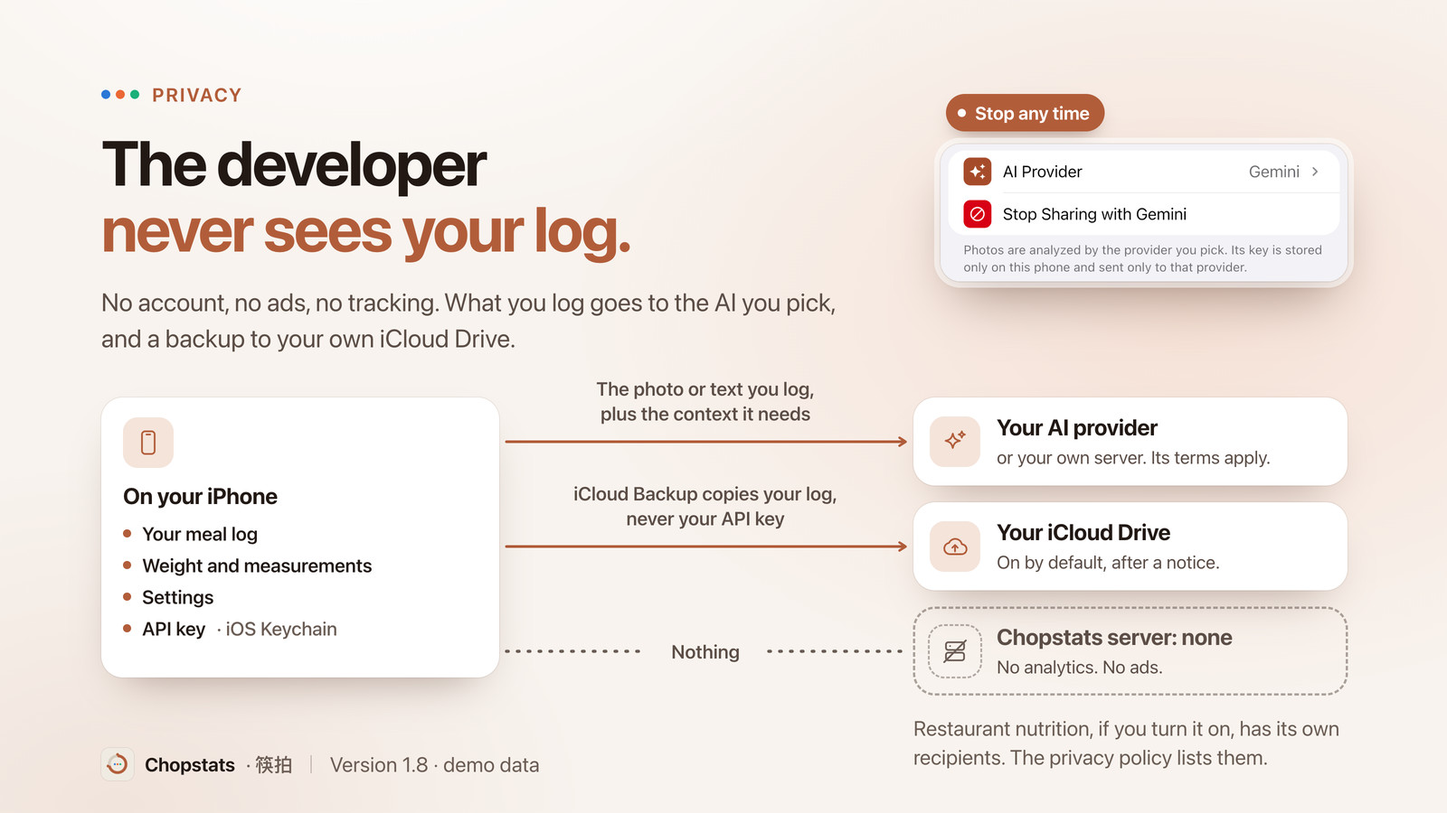
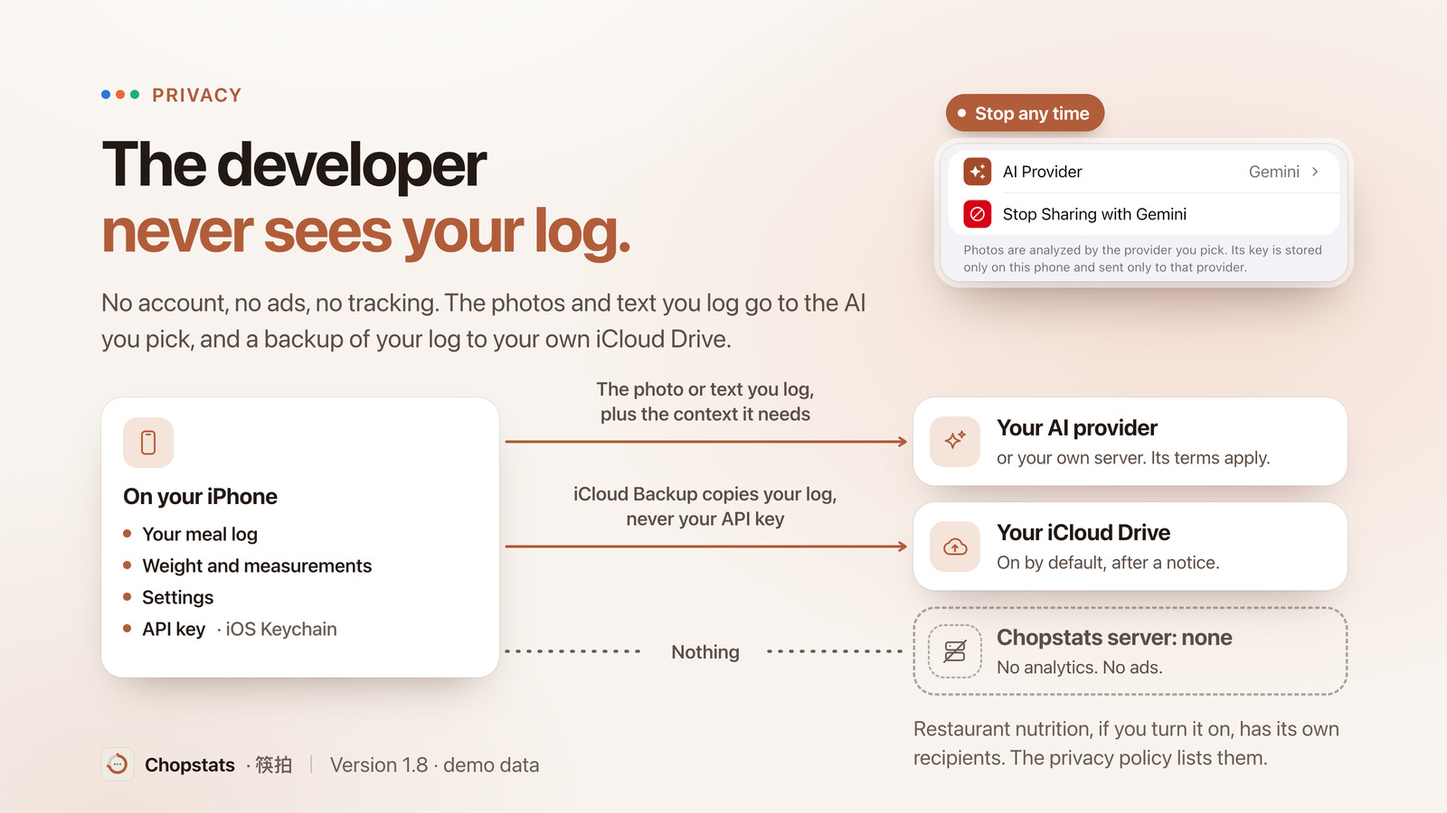
README slides: the privacy line names the photos and text sent to the AI; slide notes match the images
- 10-privacy (en, zh) and its alt texts: "The photos and text you log go to
  the AI you pick, and a backup of your log to your own iCloud Drive."
  Weight, measurements and meals entered by number send nothing to the AI.
- zh 03-control: the typed fix is about the yogurt the zh screen shows
  (「酸奶其实是脱脂的」), as the en one is about the salad.
- zh 02-how step 2 breaks after the comma, not inside 热量; the zh hero
  alt says 分量 (README.zh-CN rule 6).
- Slide notes: the social preview is English only with a "Demo data"
  footer; neither the tab bar nor + Log is in frame; the stale 13-next
  HTML pages are removed.

Changed region(s): [[0.0625, 0.3422, 0.5938, 0.4356]]

diff --git a/docs/readme/src/html/zh/10-privacy.html b/docs/readme/src/html/zh/10-privacy.html
@@ -1,1 +1,1 @@
-<!doctype html><html lang="zh-Hans"><head><meta charset="utf-8"><meta name="viewport" content="width=1600"><title>10-privacy</title><link rel="stylesheet" href="../../slides.css"></head><body><main class="slide t-light l-free "><div class="ring track"></div><div class="ring"></div><div class="copy" style="left:112px;top:92px;width:860px"><div class="kicker"><span class="eyebrow"><span class="dots"><i></i><i></i><i></i></span>隐私</span></div><h1 class="headline">饮食记录，<em>开发者看不到。</em></h1><p class="sub">无需账户，没有广告，不做追踪。<br>你记录的内容会发给你选的 AI，备份存进你自己的 iCloud 云盘。</p></div><div class="footer"><span class="brand"><img src="../../../../../app/assets/app_icon.png" alt="">Chopstats <span>· 筷拍</span></span><span class="sep"></span><span class="note">1.8 版本 · 演示数据</span></div><svg class="links" viewBox="0 0 1600 900"><defs><marker id="ah" viewBox="0 0 12 12" refX="7" refY="6" markerWidth="12" markerHeight="12" markerUnits="userSpaceOnUse" orient="auto"><path d="M1.5 1.5L8.5 6 1.5 10.5" style="fill:none;stroke:var(--accent);stroke-width:2.6;stroke-linecap:round;stroke-linejoin:round"/></marker><marker id="ahm" viewBox="0 0 12 12" refX="7" refY="6" markerWidth="12" markerHeight="12" markerUnits="userSpaceOnUse" orient="auto"><path d="M1.5 1.5L8.5 6 1.5 10.5" style="fill:none;stroke:var(--fg-3);stroke-width:2.6;stroke-linecap:round;stroke-linejoin:round"/></marker></defs><path class="" d="M 560 492 L 1000 492" marker-end="url(#ah)"/><path class="" d="M 560 619 L 1000 619" marker-end="url(#ah)"/><path class="dash mute" d="M 560 733 L 712 733"/><path class="dash mute" d="M 850 733 L 1000 733"/></svg><div class="linklabel" style="left:780px;top:447px">你记录的照片或文字，<br>以及必要的上下文</div><div class="linklabel" style="left:780px;top:574px">「iCloud 备份」复制你的记录，<br>不含 API Key</div><div class="linklabel" style="left:780px;top:733px">什么都不发</div><div class="node " style="left:112px;top:430px;width:440px;height:330px;"><div class="ico"><svg viewBox="0 0 32 32"><rect x="9" y="3.5" width="14" height="25" rx="3.5"/><path d="M14 7h4"/></svg></div><h4>在你的 iPhone 上</h4><ul><li>你的饮食记录</li><li>体重和围度</li><li>设置</li><li>API Key <span>· iOS 钥匙串</span></li></ul></div><div class="node row" style="left:1010px;top:430px;width:480px;"><div class="ico"><svg viewBox="0 0 32 32"><path d="M13.5 7c1 5 3 7 8 8-5 1-7 3-8 8-1-5-3-7-8-8 5-1 7-3 8-8z"/><path d="M23.5 4.5c.45 2.2 1.3 3.05 3.5 3.5-2.2.45-3.05 1.3-3.5 3.5-.45-2.2-1.3-3.05-3.5-3.5 2.2-.45 3.05-1.3 3.5-3.5z"/></svg></div><div><h4>你选的 AI 服务商</h4><p>或者你自己的服务器。<br>以它的条款为准。</p></div></div><div class="node row" style="left:1010px;top:570px;width:480px;"><div class="ico"><svg viewBox="0 0 32 32"><path d="M10 24.5h13a5.5 5.5 0 0 0 .6-11A7.5 7.5 0 0 0 9.4 12 6.3 6.3 0 0 0 10 24.5z"/><path d="M16 21.5v-7M13 17.3l3-3 3 3"/></svg></div><div><h4>你自己的 iCloud 云盘</h4><p>默认开启，会先显示一条说明。</p></div></div><div class="node row ghost" style="left:1010px;top:684px;width:480px;"><div class="ico"><svg viewBox="0 0 32 32"><rect x="6" y="6" width="20" height="8.5" rx="2.5"/><rect x="6" y="17.5" width="20" height="8.5" rx="2.5"/><path d="M10.5 10.2h.1M10.5 21.7h.1"/><path d="M4 28L28 4"/></svg></div><div><h4>筷拍服务器：没有</h4><p>没有统计分析，没有广告。</p></div></div><div class="zoom" style="left:1040px;top:104px;"><div class="zlabel"><i></i>随时可以停下</div><div class="zbox" style="width:450.0px;height:151.8px"><img src="../../screens/zh/11_settings_ai.png" alt="" style="left:-8.5px;top:-227.5px;width:467.0px;height:1014.6px"></div></div><div class="smallprint" style="left:1010px;top:798px;width:480px;text-align:left">「餐厅营养」打开后另有接收方，<br>详见隐私政策。</div></main></body></html>
+<!doctype html><html lang="zh-Hans"><head><meta charset="utf-8"><meta name="viewport" content="width=1600"><title>10-privacy</title><link rel="stylesheet" href="../../slides.css"></head><body><main class="slide t-light l-free "><div class="ring track"></div><div class="ring"></div><div class="copy" style="left:112px;top:92px;width:860px"><div class="kicker"><span class="eyebrow"><span class="dots"><i></i><i></i><i></i></span>隐私</span></div><h1 class="headline">饮食记录，<em>开发者看不到。</em></h1><p class="sub">无需账户，没有广告，不做追踪。<br>你记录的照片和文字会发给你选的 AI，<br>记录的备份存进你自己的 iCloud 云盘。</p></div><div class="footer"><span class="brand"><img src="../../../../../app/assets/app_icon.png" alt="">Chopstats <span>· 筷拍</span></span><span class="sep"></span><span class="note">1.8 版本 · 演示数据</span></div><svg class="links" viewBox="0 0 1600 900"><defs><marker id="ah" viewBox="0 0 12 12" refX="7" refY="6" markerWidth="12" markerHeight="12" markerUnits="userSpaceOnUse" orient="auto"><path d="M1.5 1.5L8.5 6 1.5 10.5" style="fill:none;stroke:var(--accent);stroke-width:2.6;stroke-linecap:round;stroke-linejoin:round"/></marker><marker id="ahm" viewBox="0 0 12 12" refX="7" refY="6" markerWidth="12" markerHeight="12" markerUnits="userSpaceOnUse" orient="auto"><path d="M1.5 1.5L8.5 6 1.5 10.5" style="fill:none;stroke:var(--fg-3);stroke-width:2.6;stroke-linecap:round;stroke-linejoin:round"/></marker></defs><path class="" d="M 560 492 L 1000 492" marker-end="url(#ah)"/><path class="" d="M 560 619 L 1000 619" marker-end="url(#ah)"/><path class="dash mute" d="M 560 733 L 712 733"/><path class="dash mute" d="M 850 733 L 1000 733"/></svg><div class="linklabel" style="left:780px;top:447px">你记录的照片或文字，<br>以及必要的上下文</div><div class="linklabel" style="left:780px;top:574px">「iCloud 备份」复制你的记录，<br>不含 API Key</div><div class="linklabel" style="left:780px;top:733px">什么都不发</div><div class="node " style="left:112px;top:430px;width:440px;height:330px;"><div class="ico"><svg viewBox="0 0 32 32"><rect x="9" y="3.5" width="14" height="25" rx="3.5"/><path d="M14 7h4"/></svg></div><h4>在你的 iPhone 上</h4><ul><li>你的饮食记录</li><li>体重和围度</li><li>设置</li><li>API Key <span>· iOS 钥匙串</span></li></ul></div><div class="node row" style="left:1010px;top:430px;width:480px;"><div class="ico"><svg viewBox="0 0 32 32"><path d="M13.5 7c1 5 3 7 8 8-5 1-7 3-8 8-1-5-3-7-8-8 5-1 7-3 8-8z"/><path d="M23.5 4.5c.45 2.2 1.3 3.05 3.5 3.5-2.2.45-3.05 1.3-3.5 3.5-.45-2.2-1.3-3.05-3.5-3.5 2.2-.45 3.05-1.3 3.5-3.5z"/></svg></div><div><h4>你选的 AI 服务商</h4><p>或者你自己的服务器。<br>以它的条款为准。</p></div></div><div class="node row" style="left:1010px;top:570px;width:480px;"><div class="ico"><svg viewBox="0 0 32 32"><path d="M10 24.5h13a5.5 5.5 0 0 0 .6-11A7.5 7.5 0 0 0 9.4 12 6.3 6.3 0 0 0 10 24.5z"/><path d="M16 21.5v-7M13 17.3l3-3 3 3"/></svg></div><div><h4>你自己的 iCloud 云盘</h4><p>默认开启，会先显示一条说明。</p></div></div><div class="node row ghost" style="left:1010px;top:684px;width:480px;"><div class="ico"><svg viewBox="0 0 32 32"><rect x="6" y="6" width="20" height="8.5" rx="2.5"/><rect x="6" y="17.5" width="20" height="8.5" rx="2.5"/><path d="M10.5 10.2h.1M10.5 21.7h.1"/><path d="M4 28L28 4"/></svg></div><div><h4>筷拍服务器：没有</h4><p>没有统计分析，没有广告。</p></div></div><div class="zoom" style="left:1040px;top:104px;"><div class="zlabel"><i></i>随时可以停下</div><div class="zbox" style="width:450.0px;height:151.8px"><img src="../../screens/zh/11_settings_ai.png" alt="" style="left:-8.5px;top:-227.5px;width:467.0px;height:1014.6px"></div></div><div class="smallprint" style="left:1010px;top:798px;width:480px;text-align:left">「餐厅营养」打开后另有接收方，<br>详见隐私政策。</div></main></body></html>

diff --git a/docs/readme/src/html/en/10-privacy.html b/docs/readme/src/html/en/10-privacy.html
@@ -1,1 +1,1 @@
-<!doctype html><html lang="en"><head><meta charset="utf-8"><meta name="viewport" content="width=1600"><title>10-privacy</title><link rel="stylesheet" href="../../slides.css"></head><body><main class="slide t-light l-free "><div class="ring track"></div><div class="ring"></div><div class="copy" style="left:112px;top:92px;width:860px"><div class="kicker"><span class="eyebrow"><span class="dots"><i></i><i></i><i></i></span>Privacy</span></div><h1 class="headline">The developer<br><em>never sees your log.</em></h1><p class="sub">No account, no ads, no tracking. What you log goes to the AI you pick, and a backup to your own iCloud Drive.</p></div><div class="footer"><span class="brand"><img src="../../../../../app/assets/app_icon.png" alt="">Chopstats <span>· 筷拍</span></span><span class="sep"></span><span class="note">Version 1.8 · demo data</span></div><svg class="links" viewBox="0 0 1600 900"><defs><marker id="ah" viewBox="0 0 12 12" refX="7" refY="6" markerWidth="12" markerHeight="12" markerUnits="userSpaceOnUse" orient="auto"><path d="M1.5 1.5L8.5 6 1.5 10.5" style="fill:none;stroke:var(--accent);stroke-width:2.6;stroke-linecap:round;stroke-linejoin:round"/></marker><marker id="ahm" viewBox="0 0 12 12" refX="7" refY="6" markerWidth="12" markerHeight="12" markerUnits="userSpaceOnUse" orient="auto"><path d="M1.5 1.5L8.5 6 1.5 10.5" style="fill:none;stroke:var(--fg-3);stroke-width:2.6;stroke-linecap:round;stroke-linejoin:round"/></marker></defs><path class="" d="M 560 489 L 1000 489" marker-end="url(#ah)"/><path class="" d="M 560 605 L 1000 605" marker-end="url(#ah)"/><path class="dash mute" d="M 560 721 L 712 721"/><path class="dash mute" d="M 850 721 L 1000 721"/></svg><div class="linklabel" style="left:780px;top:444px">The photo or text you log,<br>plus the context it needs</div><div class="linklabel" style="left:780px;top:560px">iCloud Backup copies your log,<br>never your API key</div><div class="linklabel" style="left:780px;top:721px">Nothing</div><div class="node " style="left:112px;top:440px;width:440px;height:310px;"><div class="ico"><svg viewBox="0 0 32 32"><rect x="9" y="3.5" width="14" height="25" rx="3.5"/><path d="M14 7h4"/></svg></div><h4>On your iPhone</h4><ul><li>Your meal log</li><li>Weight and measurements</li><li>Settings</li><li>API key <span>· iOS Keychain</span></li></ul></div><div class="node row" style="left:1010px;top:440px;width:480px;"><div class="ico"><svg viewBox="0 0 32 32"><path d="M13.5 7c1 5 3 7 8 8-5 1-7 3-8 8-1-5-3-7-8-8 5-1 7-3 8-8z"/><path d="M23.5 4.5c.45 2.2 1.3 3.05 3.5 3.5-2.2.45-3.05 1.3-3.5 3.5-.45-2.2-1.3-3.05-3.5-3.5 2.2-.45 3.05-1.3 3.5-3.5z"/></svg></div><div><h4>Your AI provider</h4><p>or your own server. Its terms apply.</p></div></div><div class="node row" style="left:1010px;top:556px;width:480px;"><div class="ico"><svg viewBox="0 0 32 32"><path d="M10 24.5h13a5.5 5.5 0 0 0 .6-11A7.5 7.5 0 0 0 9.4 12 6.3 6.3 0 0 0 10 24.5z"/><path d="M16 21.5v-7M13 17.3l3-3 3 3"/></svg></div><div><h4>Your iCloud Drive</h4><p>On by default, after a notice.</p></div></div><div class="node row ghost" style="left:1010px;top:672px;width:480px;"><div class="ico"><svg viewBox="0 0 32 32"><rect x="6" y="6" width="20" height="8.5" rx="2.5"/><rect x="6" y="17.5" width="20" height="8.5" rx="2.5"/><path d="M10.5 10.2h.1M10.5 21.7h.1"/><path d="M4 28L28 4"/></svg></div><div><h4>Chopstats server: none</h4><p>No analytics. No ads.</p></div></div><div class="zoom" style="left:1040px;top:104px;"><div class="zlabel"><i></i>Stop any time</div><div class="zbox" style="width:450.0px;height:151.8px"><img src="../../screens/en/11_settings_ai.png" alt="" style="left:-8.5px;top:-227.5px;width:467.0px;height:1014.6px"></div></div><div class="smallprint" style="left:1010px;top:790px;width:480px;text-align:left">Restaurant nutrition, if you turn it on, has its own recipients. The privacy policy lists them.</div></main></body></html>
+<!doctype html><html lang="en"><head><meta charset="utf-8"><meta name="viewport" content="width=1600"><title>10-privacy</title><link rel="stylesheet" href="../../slides.css"></head><body><main class="slide t-light l-free "><div class="ring track"></div><div class="ring"></div><div class="copy" style="left:112px;top:92px;width:860px"><div class="kicker"><span class="eyebrow"><span class="dots"><i></i><i></i><i></i></span>Privacy</span></div><h1 class="headline">The developer<br><em>never sees your log.</em></h1><p class="sub">No account, no ads, no tracking. The photos and text you log go to the AI you pick, and a backup of your log to your own iCloud Drive.</p></div><div class="footer"><span class="brand"><img src="../../../../../app/assets/app_icon.png" alt="">Chopstats <span>· 筷拍</span></span><span class="sep"></span><span class="note">Version 1.8 · demo data</span></div><svg class="links" viewBox="0 0 1600 900"><defs><marker id="ah" viewBox="0 0 12 12" refX="7" refY="6" markerWidth="12" markerHeight="12" markerUnits="userSpaceOnUse" orient="auto"><path d="M1.5 1.5L8.5 6 1.5 10.5" style="fill:none;stroke:var(--accent);stroke-width:2.6;stroke-linecap:round;stroke-linejoin:round"/></marker><marker id="ahm" viewBox="0 0 12 12" refX="7" refY="6" markerWidth="12" markerHeight="12" markerUnits="userSpaceOnUse" orient="auto"><path d="M1.5 1.5L8.5 6 1.5 10.5" style="fill:none;stroke:var(--fg-3);stroke-width:2.6;stroke-linecap:round;stroke-linejoin:round"/></marker></defs><path class="" d="M 560 489 L 1000 489" marker-end="url(#ah)"/><path class="" d="M 560 605 L 1000 605" marker-end="url(#ah)"/><path class="dash mute" d="M 560 721 L 712 721"/><path class="dash mute" d="M 850 721 L 1000 721"/></svg><div class="linklabel" style="left:780px;top:444px">The photo or text you log,<br>plus the context it needs</div><div class="linklabel" style="left:780px;top:560px">iCloud Backup copies your log,<br>never your API key</div><div class="linklabel" style="left:780px;top:721px">Nothing</div><div class="node " style="left:112px;top:440px;width:440px;height:310px;"><div class="ico"><svg viewBox="0 0 32 32"><rect x="9" y="3.5" width="14" height="25" rx="3.5"/><path d="M14 7h4"/></svg></div><h4>On your iPhone</h4><ul><li>Your meal log</li><li>Weight and measurements</li><li>Settings</li><li>API key <span>· iOS Keychain</span></li></ul></div><div class="node row" style="left:1010px;top:440px;width:480px;"><div class="ico"><svg viewBox="0 0 32 32"><path d="M13.5 7c1 5 3 7 8 8-5 1-7 3-8 8-1-5-3-7-8-8 5-1 7-3 8-8z"/><path d="M23.5 4.5c.45 2.2 1.3 3.05 3.5 3.5-2.2.45-3.05 1.3-3.5 3.5-.45-2.2-1.3-3.05-3.5-3.5 2.2-.45 3.05-1.3 3.5-3.5z"/></svg></div><div><h4>Your AI provider</h4><p>or your own server. Its terms apply.</p></div></div><div class="node row" style="left:1010px;top:556px;width:480px;"><div class="ico"><svg viewBox="0 0 32 32"><path d="M10 24.5h13a5.5 5.5 0 0 0 .6-11A7.5 7.5 0 0 0 9.4 12 6.3 6.3 0 0 0 10 24.5z"/><path d="M16 21.5v-7M13 17.3l3-3 3 3"/></svg></div><div><h4>Your iCloud Drive</h4><p>On by default, after a notice.</p></div></div><div class="node row ghost" style="left:1010px;top:672px;width:480px;"><div class="ico"><svg viewBox="0 0 32 32"><rect x="6" y="6" width="20" height="8.5" rx="2.5"/><rect x="6" y="17.5" width="20" height="8.5" rx="2.5"/><path d="M10.5 10.2h.1M10.5 21.7h.1"/><path d="M4 28L28 4"/></svg></div><div><h4>Chopstats server: none</h4><p>No analytics. No ads.</p></div></div><div class="zoom" style="left:1040px;top:104px;"><div class="zlabel"><i></i>Stop any time</div><div class="zbox" style="width:450.0px;height:151.8px"><img src="../../screens/en/11_settings_ai.png" alt="" style="left:-8.5px;top:-227.5px;width:467.0px;height:1014.6px"></div></div><div class="smallprint" style="left:1010px;top:790px;width:480px;text-align:left">Restaurant nutrition, if you turn it on, has its own recipients. The privacy policy lists them.</div></main></body></html>

diff --git a/docs/readme/src/html/zh/02-how.html b/docs/readme/src/html/zh/02-how.html
@@ -1,1 +1,1 @@
-<!doctype html><html lang="zh-Hans"><head><meta charset="utf-8"><meta name="viewport" content="width=1600"><title>02-how</title><link rel="stylesheet" href="../../slides.css"><style>.l-steps .row{top:226px}.l-steps .step .meta{min-height:132px;margin-bottom:26px}.l-steps .step p{font-size:22px;max-width:400px}.l-steps .step h3{font-size:32px}</style></head><body><main class="slide t-light l-steps "><div class="copy"><div class="kicker"><span class="eyebrow"><span class="dots"><i></i><i></i><i></i></span>使用方法</span></div><h1 class="headline">拍照，估算，<em>核对</em>。</h1></div><div class="row"><div class="step"><div class="meta"><div class="num">1</div><h3>拍照</h3><p>照常拍照，在应用里选一张，或者从「照片」分享进来。</p></div><div class="stack"><div class="photo" style="left:6px;top:26px;width:240px;height:300px;transform:rotate(-9deg);--pr:22px;"><img src="../../../photos/iced-latte.jpg" alt="" style="object-position:36% 50%"></div><div class="photo" style="left:60px;top:14px;width:240px;height:300px;transform:rotate(7deg);--pr:22px;"><img src="../../../photos/dumplings.jpg" alt="" style="object-position:60% 50%"></div><div class="photo" style="left:14px;top:70px;width:282px;height:330px;transform:rotate(-1deg);--pr:22px;"><img src="../../../photos/yogurt-bowl.jpg" alt="" style="object-position:50% 70%"><span class="badge"><svg viewBox="0 0 24 24" fill="none" stroke-width="3" stroke-linecap="round" stroke-linejoin="round"><path d="M5.5 12.5l4.2 4.2L18.5 8"/></svg></span></div></div></div><div class="arrow"><span><svg viewBox="0 0 24 24" fill="none" stroke-width="2.5" stroke-linecap="round" stroke-linejoin="round"><path d="M5 12h14M13 6l6 6-6 6"/></svg></span></div><div class="step"><div class="meta"><div class="num">2</div><h3>估算</h3><p>AI 识别每样食物，估算热量、蛋白质、碳水和脂肪。</p></div><div class="phone "><div class="screen" style="background:#F2F2F7"><img src="../../screens/zh/01_today.png" alt="" style="clip-path:inset(6.974% 0 0 0)"><div class="hl" style="left:3.636%;top:46.130%;width:92.727%;height:18.201%"></div><div class="island"></div><div class="glare"></div></div></div></div><div class="arrow"><span><svg viewBox="0 0 24 24" fill="none" stroke-width="2.5" stroke-linecap="round" stroke-linejoin="round"><path d="M5 12h14M13 6l6 6-6 6"/></svg></span></div><div class="step"><div class="meta"><div class="num">3</div><h3>核对</h3><p>看着不对的，直接改。每个数字都由你决定。</p></div><div class="phone "><div class="screen" style="background:#F2F2F7"><img src="../../screens/zh/05_meal_editor.png" alt="" style="clip-path:inset(6.974% 0 0 0)"><div class="island"></div><div class="glare"></div></div></div></div></div><div class="footer top"><span class="brand"><img src="../../../../../app/assets/app_icon.png" alt="">Chopstats <span>· 筷拍</span></span><span class="sep"></span><span class="note">1.8 版本 · 演示数据</span></div></main></body></html>
+<!doctype html><html lang="zh-Hans"><head><meta charset="utf-8"><meta name="viewport" content="width=1600"><title>02-how</title><link rel="stylesheet" href="../../slides.css"><style>.l-steps .row{top:226px}.l-steps .step .meta{min-height:132px;margin-bottom:26px}.l-steps .step p{font-size:22px;max-width:400px}.l-steps .step h3{font-size:32px}</style></head><body><main class="slide t-light l-steps "><div class="copy"><div class="kicker"><span class="eyebrow"><span class="dots"><i></i><i></i><i></i></span>使用方法</span></div><h1 class="headline">拍照，估算，<em>核对</em>。</h1></div><div class="row"><div class="step"><div class="meta"><div class="num">1</div><h3>拍照</h3><p>照常拍照，在应用里选一张，或者从「照片」分享进来。</p></div><div class="stack"><div class="photo" style="left:6px;top:26px;width:240px;height:300px;transform:rotate(-9deg);--pr:22px;"><img src="../../../photos/iced-latte.jpg" alt="" style="object-position:36% 50%"></div><div class="photo" style="left:60px;top:14px;width:240px;height:300px;transform:rotate(7deg);--pr:22px;"><img src="../../../photos/dumplings.jpg" alt="" style="object-position:60% 50%"></div><div class="photo" style="left:14px;top:70px;width:282px;height:330px;transform:rotate(-1deg);--pr:22px;"><img src="../../../photos/yogurt-bowl.jpg" alt="" style="object-position:50% 70%"><span class="badge"><svg viewBox="0 0 24 24" fill="none" stroke-width="3" stroke-linecap="round" stroke-linejoin="round"><path d="M5.5 12.5l4.2 4.2L18.5 8"/></svg></span></div></div></div><div class="arrow"><span><svg viewBox="0 0 24 24" fill="none" stroke-width="2.5" stroke-linecap="round" stroke-linejoin="round"><path d="M5 12h14M13 6l6 6-6 6"/></svg></span></div><div class="step"><div class="meta"><div class="num">2</div><h3>估算</h3><p>AI 识别每样食物，<br>估算热量、蛋白质、碳水和脂肪。</p></div><div class="phone "><div class="screen" style="background:#F2F2F7"><img src="../../screens/zh/01_today.png" alt="" style="clip-path:inset(6.974% 0 0 0)"><div class="hl" style="left:3.636%;top:46.130%;width:92.727%;height:18.201%"></div><div class="island"></div><div class="glare"></div></div></div></div><div class="arrow"><span><svg viewBox="0 0 24 24" fill="none" stroke-width="2.5" stroke-linecap="round" stroke-linejoin="round"><path d="M5 12h14M13 6l6 6-6 6"/></svg></span></div><div class="step"><div class="meta"><div class="num">3</div><h3>核对</h3><p>看着不对的，直接改。每个数字都由你决定。</p></div><div class="phone "><div class="screen" style="background:#F2F2F7"><img src="../../screens/zh/05_meal_editor.png" alt="" style="clip-path:inset(6.974% 0 0 0)"><div class="island"></div><div class="glare"></div></div></div></div></div><div class="footer top"><span class="brand"><img src="../../../../../app/assets/app_icon.png" alt="">Chopstats <span>· 筷拍</span></span><span class="sep"></span><span class="note">1.8 版本 · 演示数据</span></div></main></body></html>

diff --git a/docs/readme/src/html/zh/03-control.html b/docs/readme/src/html/zh/03-control.html
@@ -1,1 +1,1 @@
-<!doctype html><html lang="zh-Hans"><head><meta charset="utf-8"><meta name="viewport" content="width=1600"><title>03-control</title><link rel="stylesheet" href="../../slides.css"><style>.l-free .headline{font-size:62px}</style></head><body><main class="slide t-light l-free "><div class="ring track"></div><div class="ring"></div><div class="copy" style="left:112px;top:0;bottom:0;width:560px;justify-content:center"><div class="kicker"><span class="eyebrow"><span class="dots"><i></i><i></i><i></i></span>数字由你掌握</span></div><h1 class="headline">分量写明白，<em>数字随你改。</em></h1><p class="sub">应用要求 AI 写明它假设的分量，估错了一眼就能看出来。</p><ul class="points"><li><span><b>改数字</b>：热量、蛋白质、碳水、脂肪都能改。</span></li><li><span><b>或者打一句话</b>，让 AI 帮你改。</span></li><li><span><b>没吃完？</b>拍下剩菜，扣掉没吃的部分。</span></li></ul></div><div class="footer"><span class="brand"><img src="../../../../../app/assets/app_icon.png" alt="">Chopstats <span>· 筷拍</span></span><span class="sep"></span><span class="note">1.8 版本 · 演示数据</span></div><div class="phone free" style="left:1196px;top:60px;--sw:320px;"><div class="screen" style="background:#F2F2F7"><img src="../../screens/zh/05_meal_editor.png" alt="" style="clip-path:inset(6.974% 0 0 0)"><div class="hl" style="left:3.030%;top:51.953%;width:93.939%;height:11.158%"></div><div class="island"></div><div class="glare"></div></div></div><div class="zoom" style="left:706px;top:414px;"><div class="zlabel"><i></i>AI 假设的分量</div><div class="zbox" style="width:476.0px;height:129.5px"><img src="../../screens/zh/05_meal_editor.png" alt="" style="left:-9.0px;top:-553.8px;width:494.0px;height:1073.2px"></div></div><div class="bubble" style="left:706px;top:640px"><div class="zlabel muted"><i></i>或者直接打一句</div><br><div class="bt">「那份沙拉其实没放酱」</div></div></main></body></html>
+<!doctype html><html lang="zh-Hans"><head><meta charset="utf-8"><meta name="viewport" content="width=1600"><title>03-control</title><link rel="stylesheet" href="../../slides.css"><style>.l-free .headline{font-size:62px}</style></head><body><main class="slide t-light l-free "><div class="ring track"></div><div class="ring"></div><div class="copy" style="left:112px;top:0;bottom:0;width:560px;justify-content:center"><div class="kicker"><span class="eyebrow"><span class="dots"><i></i><i></i><i></i></span>数字由你掌握</span></div><h1 class="headline">分量写明白，<em>数字随你改。</em></h1><p class="sub">应用要求 AI 写明它假设的分量，估错了一眼就能看出来。</p><ul class="points"><li><span><b>改数字</b>：热量、蛋白质、碳水、脂肪都能改。</span></li><li><span><b>或者打一句话</b>，让 AI 帮你改。</span></li><li><span><b>没吃完？</b>拍下剩菜，扣掉没吃的部分。</span></li></ul></div><div class="footer"><span class="brand"><img src="../../../../../app/assets/app_icon.png" alt="">Chopstats <span>· 筷拍</span></span><span class="sep"></span><span class="note">1.8 版本 · 演示数据</span></div><div class="phone free" style="left:1196px;top:60px;--sw:320px;"><div class="screen" style="background:#F2F2F7"><img src="../../screens/zh/05_meal_editor.png" alt="" style="clip-path:inset(6.974% 0 0 0)"><div class="hl" style="left:3.030%;top:51.953%;width:93.939%;height:11.158%"></div><div class="island"></div><div class="glare"></div></div></div><div class="zoom" style="left:706px;top:414px;"><div class="zlabel"><i></i>AI 假设的分量</div><div class="zbox" style="width:476.0px;height:129.5px"><img src="../../screens/zh/05_meal_editor.png" alt="" style="left:-9.0px;top:-553.8px;width:494.0px;height:1073.2px"></div></div><div class="bubble" style="left:706px;top:640px"><div class="zlabel muted"><i></i>或者直接打一句</div><br><div class="bt">「酸奶其实是脱脂的」</div></div></main></body></html>

diff --git a/README.zh-CN.md b/README.zh-CN.md
@@ -51,7 +51,7 @@ Rules for this file:
 </div>
 
 <p align="center">
-  <img src="docs/readme/zh/slides/01-hero.jpg" width="100%" alt="筷拍 Chopstats：让食物照片变成你的热量记录。一张酸奶碗的照片，旁边是「今天」页面，放大的餐食卡片是一个估算示例，列出热量、蛋白质、碳水、脂肪和每种食物的份量。">
+  <img src="docs/readme/zh/slides/01-hero.jpg" width="100%" alt="筷拍 Chopstats：让食物照片变成你的热量记录。一张酸奶碗的照片，旁边是「今天」页面，放大的餐食卡片是一个估算示例，列出热量、蛋白质、碳水、脂肪和每样食物的分量。">
 </p>
 
 <div align="center">
@@ -85,14 +85,14 @@ Rules for this file:
 <br>
 
 <p align="center">
-  <img src="docs/readme/zh/slides/03-control.jpg" width="100%" alt="分量写明白，数字随你改。每样食物都写明 AI 假设的分量，估错了一眼就能看出来。改数字：热量、蛋白质、碳水、脂肪都能改；或者打一句话，让 AI 帮你改；没吃完？拍下剩菜，扣掉没吃的部分。「编辑这一餐」页面，其中一行被放大：原味希腊酸奶（约200克），146 千卡、蛋白质 20 克、碳水 8 克、脂肪 4 克，每个数字都可以改。旁边是一句打字修改：「那份沙拉其实没放酱」。">
+  <img src="docs/readme/zh/slides/03-control.jpg" width="100%" alt="分量写明白，数字随你改。每样食物都写明 AI 假设的分量，估错了一眼就能看出来。改数字：热量、蛋白质、碳水、脂肪都能改；或者打一句话，让 AI 帮你改；没吃完？拍下剩菜，扣掉没吃的部分。「编辑这一餐」页面，其中一行被放大：原味希腊酸奶（约200克），146 千卡、蛋白质 20 克、碳水 8 克、脂肪 4 克，每个数字都可以改。旁边是一句打字修改：「酸奶其实是脱脂的」。">
 </p>
 
 <div align="center">
 
 ### 数字由你掌握
 
-每样食物都写明 AI 假设的分量，例如“原味希腊酸奶（约200克）”，估错了一眼就能看出来。每个数字都可以改，也可以直接打一句修改，例如「那份沙拉其实没放酱」。
+每样食物都写明 AI 假设的分量，例如“原味希腊酸奶（约200克）”，估错了一眼就能看出来。每个数字都可以改，也可以直接打一句修改，例如「酸奶其实是脱脂的」。
 
 <sub>没吃完？在「今天 › 记录 › 记录剩菜」里拍下剩下的部分，这一餐会减为你实际吃掉的量。应用要求 AI 先读营养成分表或印出来的重量，再凭目测估算。估算可能有误，这款应用的准确度没有人测量过。</sub>
 
@@ -101,7 +101,7 @@ Rules for this file:
 <br>
 
 <p align="center">
-  <img src="docs/readme/zh/slides/10-privacy.jpg" width="100%" alt="饮食记录，开发者看不到。无需账户，没有广告，不做追踪。你记录的内容会发给你选的 AI，备份存进你自己的 iCloud 云盘。示意图：你的 iPhone 上有你的饮食记录、体重和围度、设置，以及存在 iOS 钥匙串里的 API Key。一条箭头标着“你记录的照片或文字，以及必要的上下文”，指向你选的 AI 服务商或者你自己的服务器，以它的条款为准。另一条箭头标着“「iCloud 备份」复制你的记录，不含 API Key”，指向你自己的 iCloud 云盘：默认开启，会先显示一条说明。一条虚线标着“什么都不发”，指向虚线框：筷拍服务器：没有，没有统计分析，没有广告。上方是「设置」里的「AI 服务」（Gemini）和「停止发送给 Gemini」，标注“随时可以停下”。「餐厅营养」打开后另有接收方，详见隐私政策。">
+  <img src="docs/readme/zh/slides/10-privacy.jpg" width="100%" alt="饮食记录，开发者看不到。无需账户，没有广告，不做追踪。你记录的照片和文字会发给你选的 AI，记录的备份存进你自己的 iCloud 云盘。示意图：你的 iPhone 上有你的饮食记录、体重和围度、设置，以及存在 iOS 钥匙串里的 API Key。一条箭头标着“你记录的照片或文字，以及必要的上下文”，指向你选的 AI 服务商或者你自己的服务器，以它的条款为准。另一条箭头标着“「iCloud 备份」复制你的记录，不含 API Key”，指向你自己的 iCloud 云盘：默认开启，会先显示一条说明。一条虚线标着“什么都不发”，指向虚线框：筷拍服务器：没有，没有统计分析，没有广告。上方是「设置」里的「AI 服务」（Gemini）和「停止发送给 Gemini」，标注“随时可以停下”。「餐厅营养」打开后另有接收方，详见隐私政策。">
 </p>
 
 <div align="center">

diff --git a/docs/readme/src/README.md b/docs/readme/src/README.md
@@ -109,25 +109,29 @@ that are all background, so it never cuts through text.
 ## Slides tied to a release
 
 Since 2026-11-13 the README shows only `01-hero`, `02-how`, `03-control` and
-`10-privacy`. The items below for `06-usual`, `07-restaurant`, `09-glasses`
-and `13-next` matter only if one of those slides goes back on the page.
+`10-privacy`. The items below for `06-usual`, `07-restaurant` and
+`09-glasses` matter only if one of those slides goes back on the page.
 
-- `01-hero`, `02-how`, `03-control`, `10-privacy` and the social preview
-  show 1.8.0, the App Store version, in both languages: its native iOS
-  look (large titles, a solid **+ Log** button, a tab bar without the
-  pill) on the Today screen (`01-hero`, `02-how`), Edit meal (`02-how`,
-  `03-control`) and the Settings rows that `10-privacy` crops, shot as
-  described under Screenshots. The footer says "Version 1.8 · demo data"
-  (`deck.json`'s default `note`, and `01-hero`'s own `cnote`), and the
-  README's hero caption names 1.8. When an App Store version changes the
-  look, all five need new captures, and their footers and the caption the
-  new version.
+- `01-hero`, `02-how`, `03-control` and `10-privacy` (in both languages)
+  and the social preview (English only) show 1.8.0, the App Store
+  version, in its native iOS look: the Today screen's large title and
+  meal cards (`01-hero`, `02-how`, the social preview), Edit meal
+  (`02-how`, `03-control`) and the Settings rows that `10-privacy` crops,
+  shot as described under Screenshots. Neither the tab bar nor the
+  **+ Log** button is in frame. The four slides' footer says
+  "Version 1.8 · demo data" (`deck.json`'s default `note`, and
+  `01-hero`'s own `cnote`); the social preview's says "Demo data", and
+  the README's hero caption names 1.8. When an App Store version changes
+  the look, all five need new captures, and the four footers and the
+  caption the new version.
 - iCloud Backup (on by default in 1.8.0, after a notice) copies the log to
   the user's own iCloud Drive, so no slide says the log stays on the
   phone. `01-hero`'s chip says "Developer never sees your log"
   (开发者看不到你的记录). `10-privacy` says "The developer never sees your
-  log." (饮食记录，开发者看不到。) and that what you log goes to the AI
-  you pick, and a backup to your own iCloud Drive; its diagram has a
+  log." (饮食记录，开发者看不到。) and that the photos and text you log
+  go to the AI you pick, and a backup of your log to your own iCloud
+  Drive (weight, measurements and meals entered by number send nothing
+  to the AI, so the slide does not say "what you log"); its diagram has a
   second arrow, "iCloud Backup copies your log, never your API key", to
   your iCloud Drive, "On by default, after a notice." These follow
   docs/PRIVACY.md (*What is sent, and to whom*, *iCloud Backup*): check
@@ -140,13 +144,13 @@ and `13-next` matter only if one of those slides goes back on the page.
 - `06-usual`, `07-restaurant` and `09-glasses` carry the "New in 1.6" pill,
   which goes if one of them comes back: 1.6 is no longer the newest
   version.
-- `13-next` showed what was on `main` but not in the App Store build (the
-  native iOS look, iCloud Backup). The first App Store version built from
-  `main` after 1.6.0, 1.8.0 (the iPhone skips 1.7.0, 1.7.1 and 1.7.2, and
-  a 1.6.x hotfix has neither feature; docs/RELEASING.md § 6.6), shipped
-  both, and they went into the README's lists (What else it does, More
-  features), not onto a slide. `13-next` is out of date: keep it off the
-  page.
+- `13-next` ("Coming next") showed what was on `main` but not in the App
+  Store build (the native iOS look, iCloud Backup). It has no entry in
+  `deck.json`, and its leftover HTML pages are gone from `html/`. The
+  first App Store version built from `main` after 1.6.0, 1.8.0 (the iPhone
+  skips 1.7.0, 1.7.1 and 1.7.2, and a 1.6.x hotfix has neither feature;
+  docs/RELEASING.md § 6.6), shipped both, and they went into the README's
+  lists (What else it does, More features), not onto a slide.
 - `07-restaurant` shows Chipotle's published numbers as demo data, with
   "not affiliated" in the footer. All calorie, protein, carb and fat values
   match Chipotle's US nutrition PDF (July 2022); the 1.6.0 shots show the

diff --git a/README.md b/README.md
@@ -141,7 +141,7 @@ Every food shows the portion your AI assumed, such as "Grilled chicken breast (~
 <br>
 
 <p align="center">
-  <img src="docs/readme/slides/10-privacy.jpg" width="100%" alt="The developer never sees your log. No account, no ads, no tracking. What you log goes to the AI you pick, and a backup to your own iCloud Drive. A diagram: on your iPhone are your meal log, weight and measurements, settings, and your API key in the iOS Keychain. An arrow labelled “The photo or text you log, plus the context it needs” leads to your AI provider, or your own server, whose terms apply. A second arrow, labelled “iCloud Backup copies your log, never your API key”, leads to your iCloud Drive: on by default, after a notice. A dotted line labelled Nothing leads to a dashed box: Chopstats server: none. No analytics. No ads. Above, the Settings rows AI Provider (Gemini) and Stop Sharing with Gemini, labelled Stop any time. Restaurant nutrition, if you turn it on, has its own recipients; the privacy policy lists them.">
+  <img src="docs/readme/slides/10-privacy.jpg" width="100%" alt="The developer never sees your log. No account, no ads, no tracking. The photos and text you log go to the AI you pick, and a backup of your log to your own iCloud Drive. A diagram: on your iPhone are your meal log, weight and measurements, settings, and your API key in the iOS Keychain. An arrow labelled “The photo or text you log, plus the context it needs” leads to your AI provider, or your own server, whose terms apply. A second arrow, labelled “iCloud Backup copies your log, never your API key”, leads to your iCloud Drive: on by default, after a notice. A dotted line labelled Nothing leads to a dashed box: Chopstats server: none. No analytics. No ads. Above, the Settings rows AI Provider (Gemini) and Stop Sharing with Gemini, labelled Stop any time. Restaurant nutrition, if you turn it on, has its own recipients; the privacy policy lists them.">
 </p>
 
 <div align="center">
